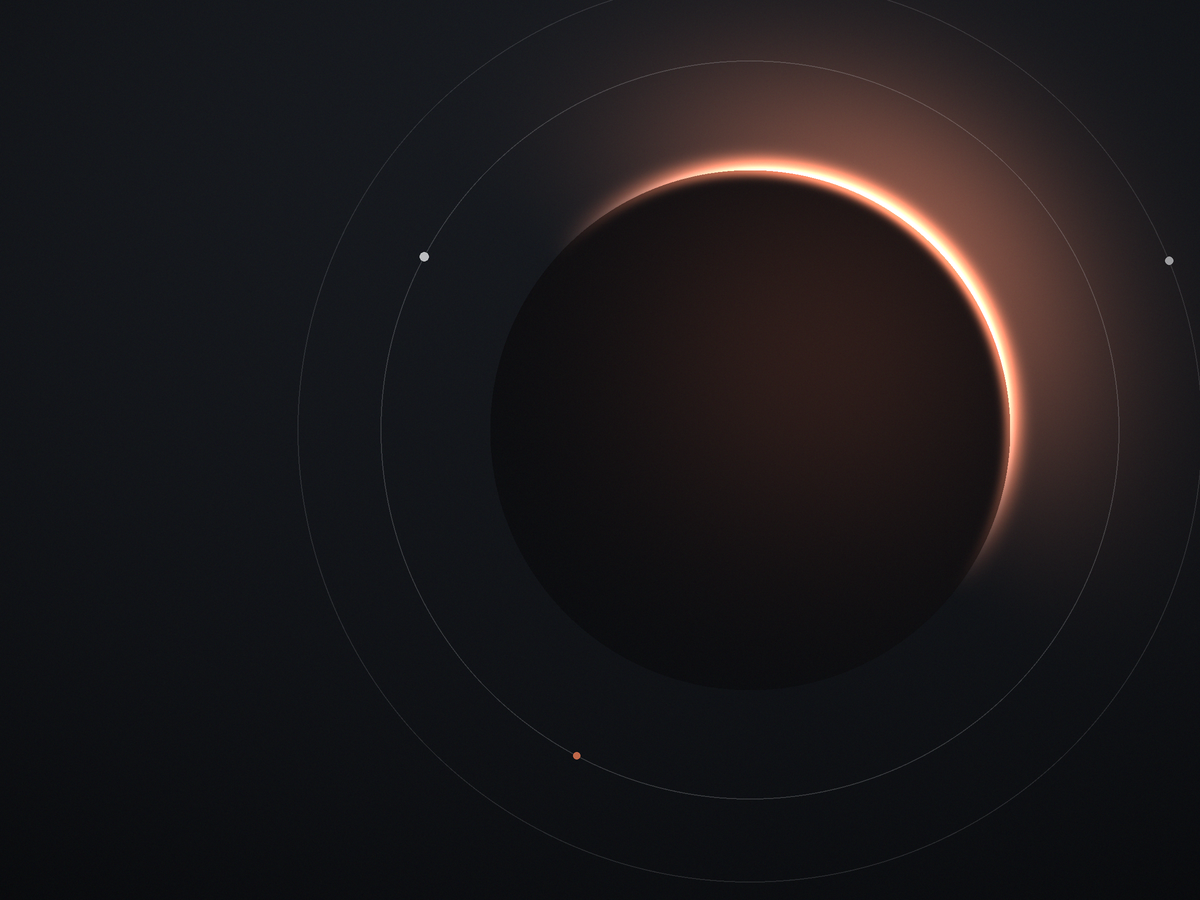
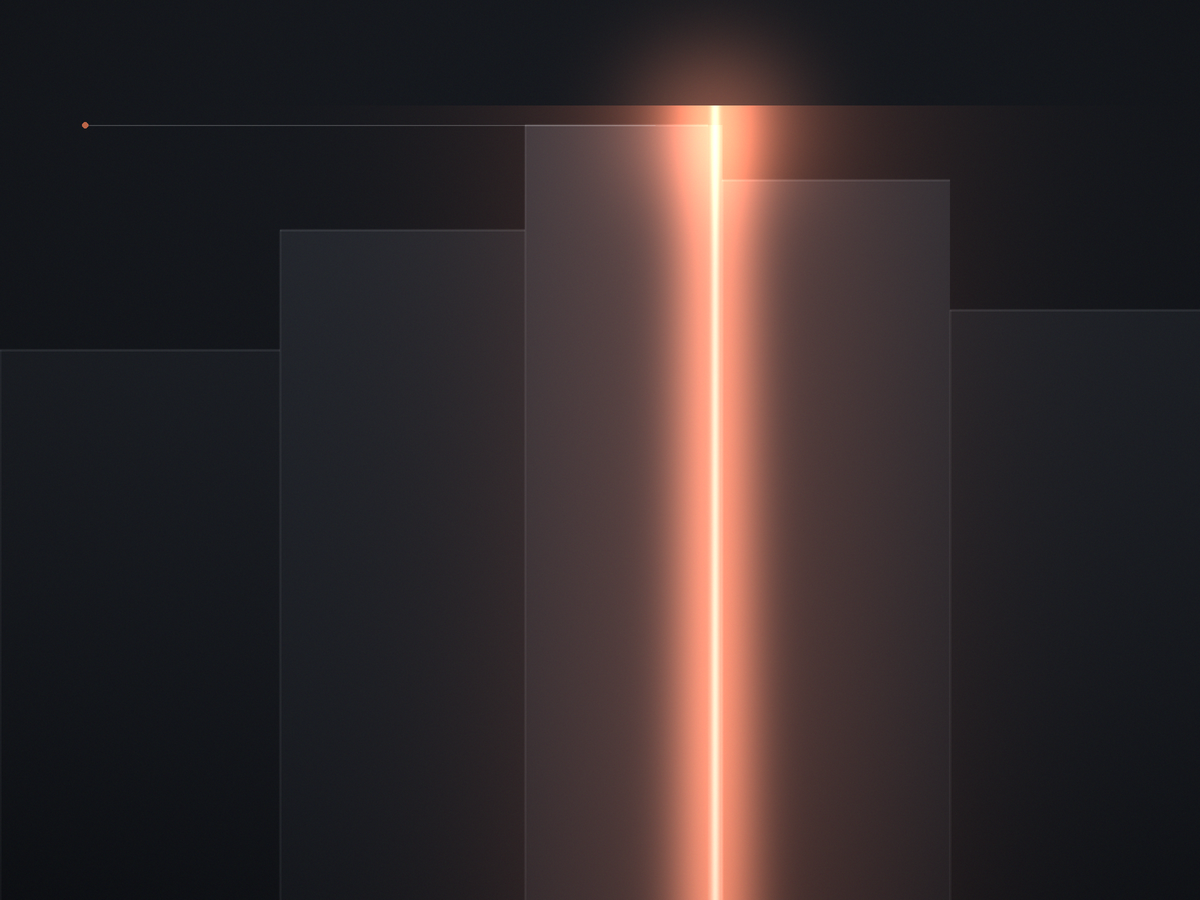
Agentes IA: geometría abstracta — monolitos con grieta de luz

diff --git a/index.html b/index.html
@@ -587,7 +587,7 @@
     <p class="section-intro reveal" data-i18n="ai_intro">Integramos inteligencia artificial en el corazón de tus procesos: desde agentes que trabajan por ti hasta automatizaciones que eliminan el trabajo repetitivo.</p>
     <div class="ai-grid">
       <div class="ai-card ai-card--feature reveal">
-        <img src="brand/agents.png" alt="Orbe oscuro con luz naciente en su contorno" loading="lazy" width="1200" height="900">
+        <img src="brand/agents.png" alt="Monolitos de tinta con una grieta de luz terracota" loading="lazy" width="1200" height="900">
         <h3 data-i18n="ai1_t">Agentes IA</h3>
         <p data-i18n="ai1_d">Agentes autónomos que ejecutan tareas complejas: atención al cliente, operaciones, análisis y más.</p>
       </div>